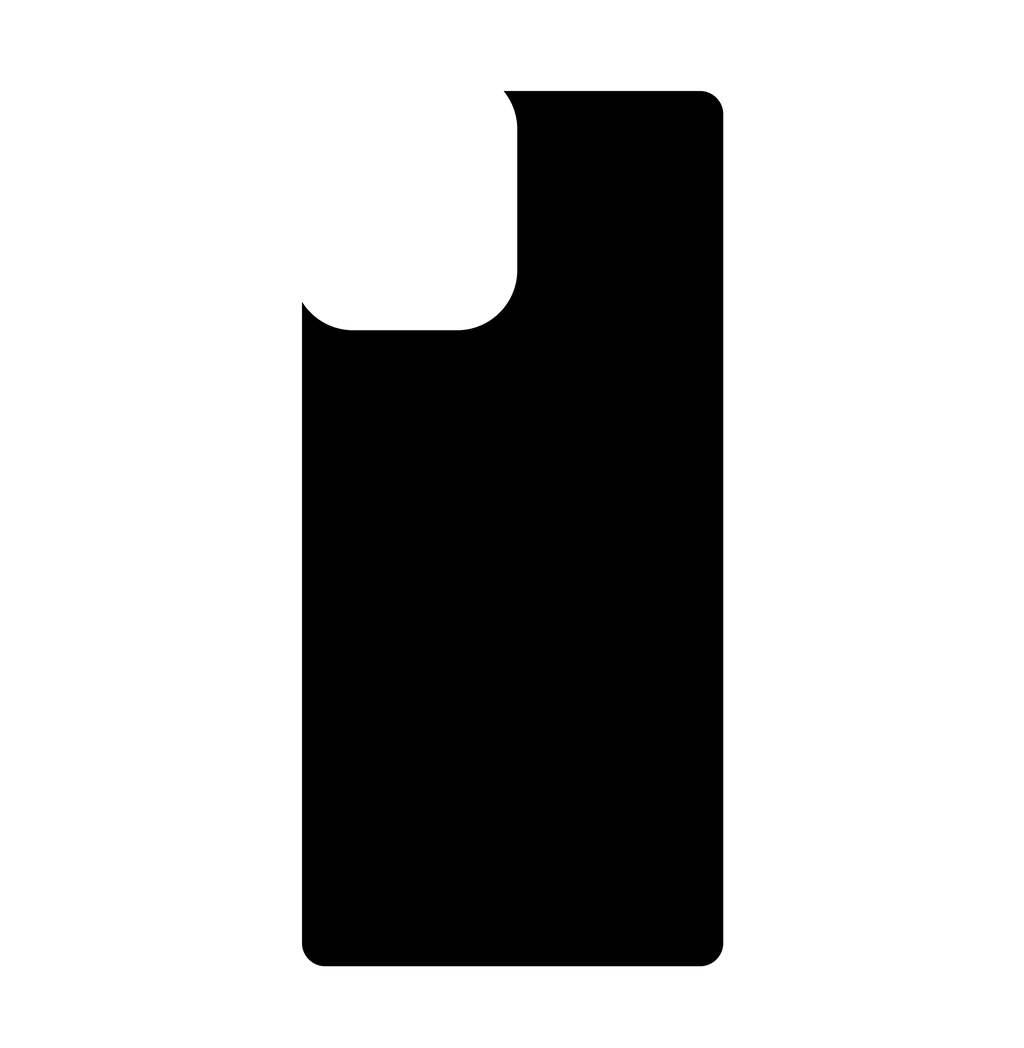
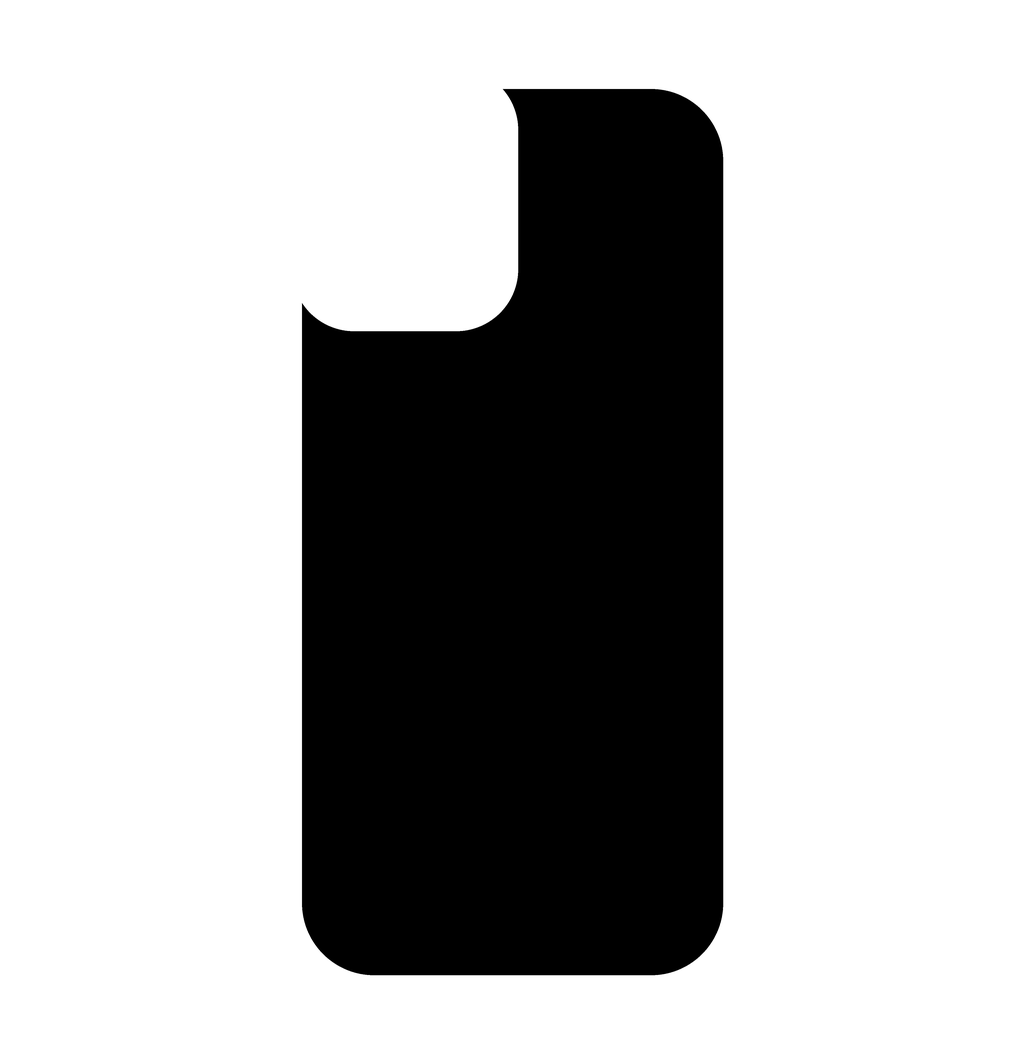
Case Studio: Pro mask corners + ring punch corrected against renders
- Case-back corners: r72 measured by outline-overlay against the Gemini
  renders (spec's 3.75mm acrylic radius is print truth, but the preview
  mask must match the photo's much rounder back)
- Bottom edge extended 11px to the render's true back boundary
- Ring cutout: clean rounded-rect punch at the measured ring bbox +
  margin — pixel-fill approaches failed on the ring frame's highlight
  gaps (verified via Python-side composite proof before browser test)

Claude-Session: https://claude.ai/code/session_0147n88iJpNxHy7V5617KxVZ

diff --git a/case-designer.html b/case-designer.html
@@ -305,13 +305,13 @@ const IPPRO_ASSETS = {
   photo:'assets/cases/ip16pro-gem-silver.jpg',
   mask:'assets/cases/ip16pro-gem-mask.png',
   px:{ w:1024, h:1048 },
-  print:{ x:302, y:91, w:421, h:875 },
-  cutoutPx:{ x:293, y:69, w:224, h:261, r:60 },
+  print:{ x:302, y:89, w:421, h:886 },
+  cutoutPx:{ x:288, y:68, w:231, h:263, r:60 },
   colors:[
-    { id:'silver',  label:'White Titanium',   sw:'#E8E8E6', photo:'assets/cases/ip16pro-gem-silver.jpg',  px:{w:1024,h:1048}, print:{x:302,y:91,w:421,h:875} },
-    { id:'black',   label:'Black Titanium',   sw:'#3E3F44', photo:'assets/cases/ip16pro-gem-black.jpg',   px:{w:1024,h:1048}, print:{x:302,y:91,w:421,h:875} },
-    { id:'natural', label:'Natural Titanium', sw:'#C9BFAE', photo:'assets/cases/ip16pro-gem-natural.jpg', px:{w:1024,h:1048}, print:{x:302,y:91,w:421,h:875} },
-    { id:'desert',  label:'Desert Titanium',  sw:'#D8BC96', photo:'assets/cases/ip16pro-gem-desert.jpg',  px:{w:1024,h:1048}, print:{x:302,y:91,w:421,h:875} },
+    { id:'silver',  label:'White Titanium',   sw:'#E8E8E6', photo:'assets/cases/ip16pro-gem-silver.jpg',  px:{w:1024,h:1048}, print:{x:302,y:89,w:421,h:886} },
+    { id:'black',   label:'Black Titanium',   sw:'#3E3F44', photo:'assets/cases/ip16pro-gem-black.jpg',   px:{w:1024,h:1048}, print:{x:302,y:89,w:421,h:886} },
+    { id:'natural', label:'Natural Titanium', sw:'#C9BFAE', photo:'assets/cases/ip16pro-gem-natural.jpg', px:{w:1024,h:1048}, print:{x:302,y:89,w:421,h:886} },
+    { id:'desert',  label:'Desert Titanium',  sw:'#D8BC96', photo:'assets/cases/ip16pro-gem-desert.jpg',  px:{w:1024,h:1048}, print:{x:302,y:89,w:421,h:886} },
   ],
 };
 // iPhone 17: same composition as the 16 set (verified within ~3px), so it
